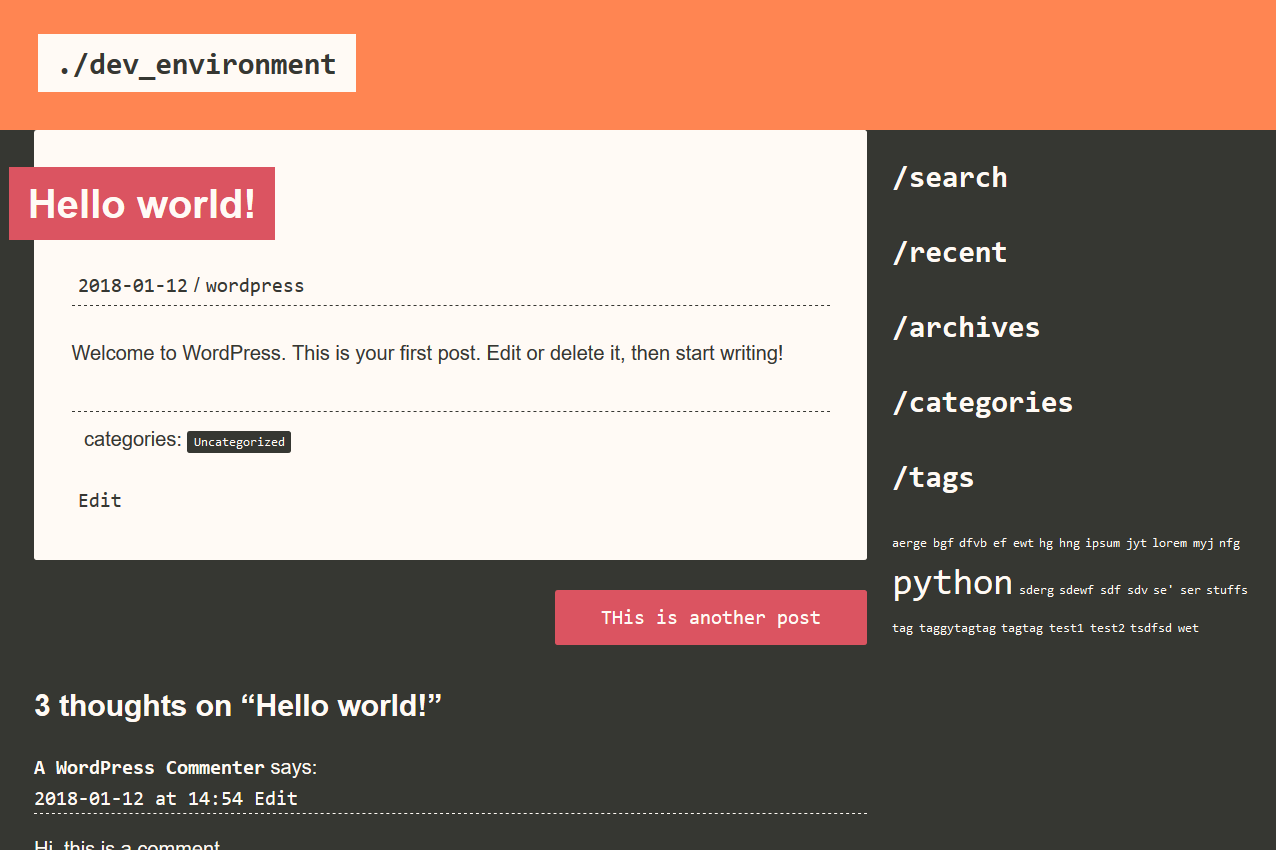
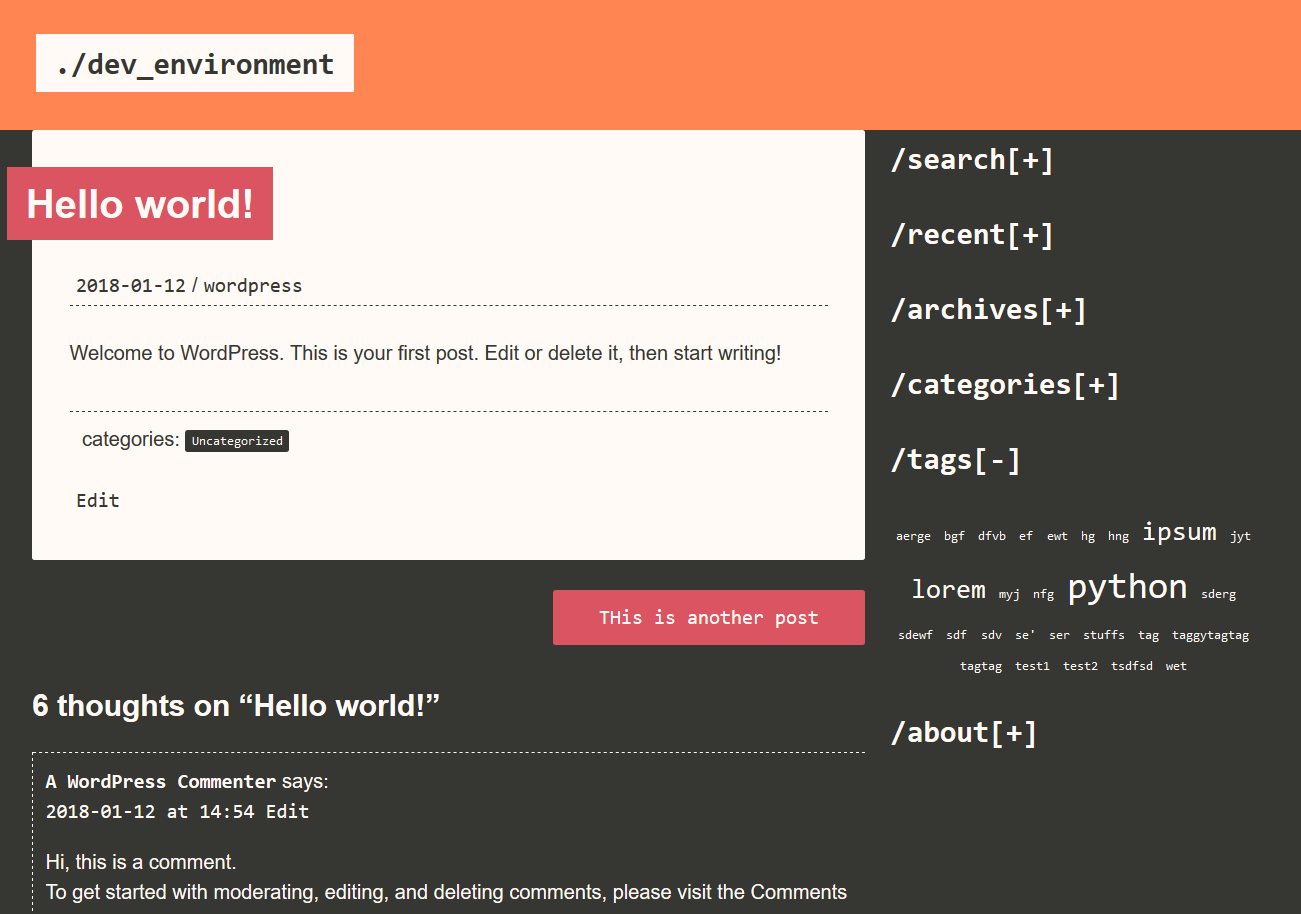
added honeypot to form, new screenshot, fixed some css

Changed region(s): [[0.0, 0.0306, 1.0, 0.7647], [0.0306, 0.7341, 0.6418, 1.0], [0.6724, 0.7953, 0.7947, 0.8259]]

diff --git a/devenvironment/style.css b/devenvironment/style.css
@@ -1077,7 +1077,7 @@ body
     color: #FFFAF5; 
 }
 
-#comment
+#comment, #author, #email
 {
     background-color: #FFFAF5; 
 }
@@ -1090,6 +1090,11 @@ body
     background-color: #FF8552;
     border: 0px;
     padding: 10px 15px;
+}
+
+.fax-number
+{
+    display: none;
 }
 
 /*--------------------------------------------------------------

diff --git a/devenvironment/functions.php b/devenvironment/functions.php
@@ -129,6 +129,34 @@ function devenvironment_scripts() {
 }
 add_action( 'wp_enqueue_scripts', 'devenvironment_scripts' );
 
+
+/**
+ * get rid of URL field, add honeypot field
+ */
+function devenvironment_custom_fields($fields)
+{
+    unset($fields['url']);
+    $fields['fax_number'] = '
+        <input type="text" name="fax_number" value="" class="fax-number" tabindex="-1" autocomplete="off"/>
+    ';
+    return $fields;
+}
+add_filter('comment_form_default_fields', 'devenvironment_custom_fields');
+
+/**
+ * check honeypot field
+ */ 
+function devenvironment_check_honeypot($commentdata)
+{
+    $hp = $_POST['fax_number'];
+    if ($hp != "") {
+        wp_die(__( 'Could not submit comment at this time.' ) );    
+    }
+    return $commentdata;
+}
+add_filter('preprocess_comment', 'devenvironment_check_honeypot');
+
+
 /**
  * Implement the Custom Header feature.
  */
